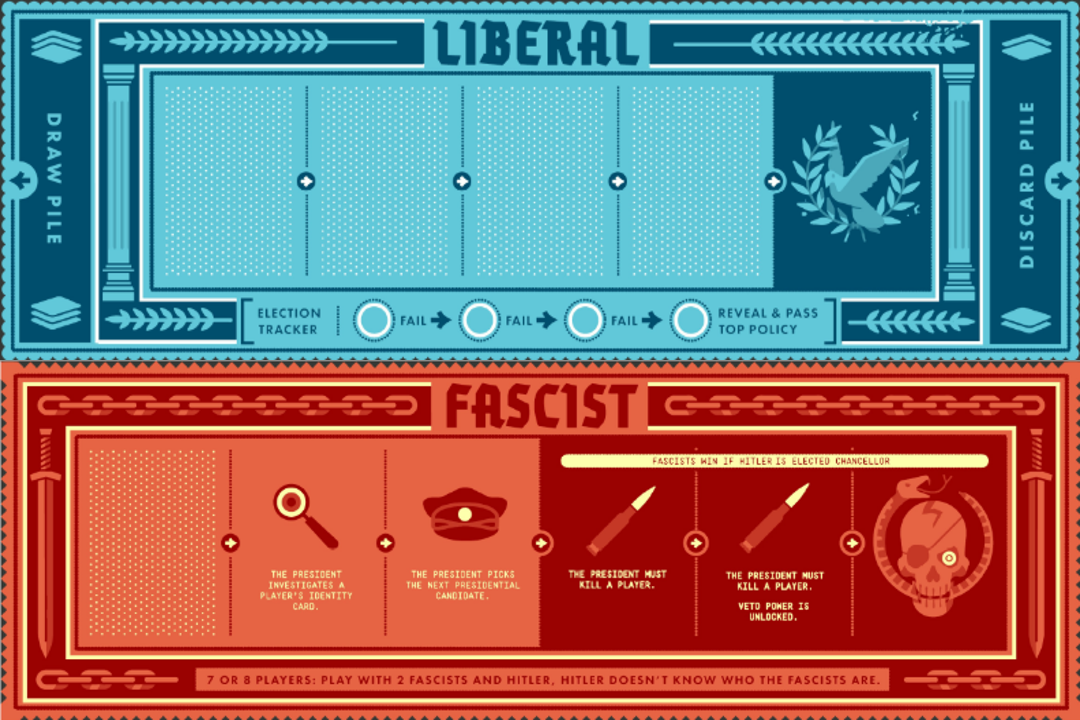
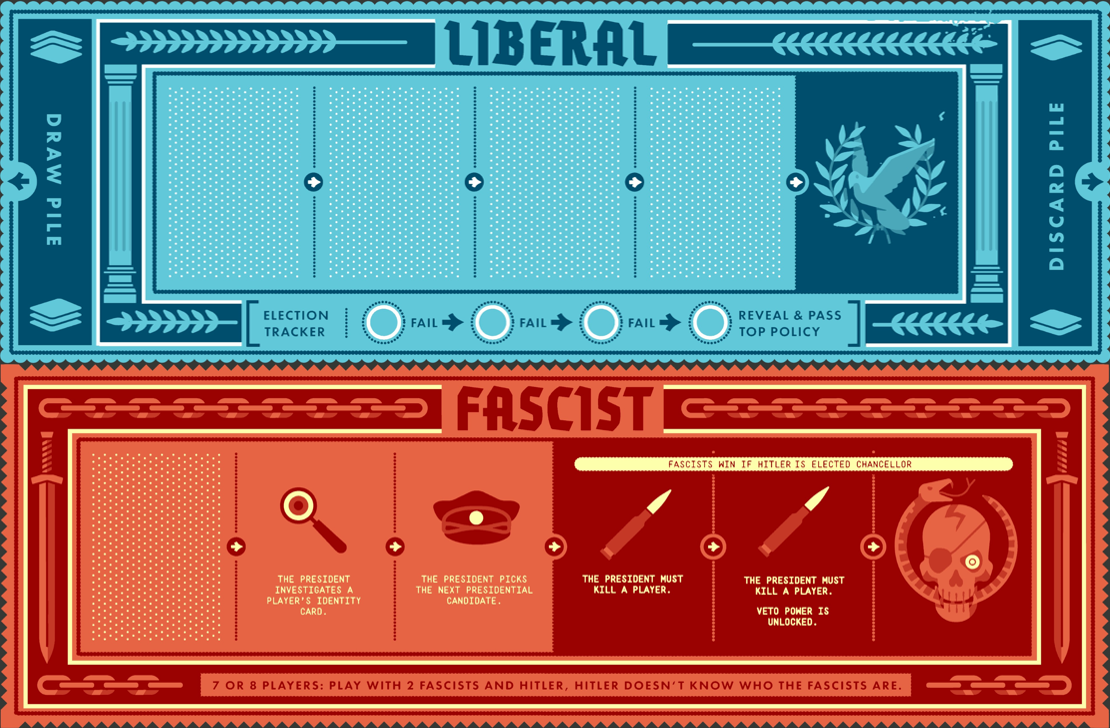
fixed player.send() async

diff --git a/Python/board.py b/Python/board.py
@@ -1,3 +1,4 @@
+
 import random
 from enum import Enum
 from typing import Type
@@ -7,7 +8,6 @@ from discord import Embed, File
 
 from players import Player
 from static_data import colours
-
 
 # from PIL import Image
 
@@ -71,7 +71,7 @@ class Board:
     def getPlayerCount(self) -> int:
         return len(self.__players)
 
-    def generateAndSendRoles(self):
+    async def generateAndSendRoles(self):
         rolesList = ["H", "L", "L", "L", "F", "L", "F", "L", "F", "L"]
         reqdRoles = rolesList[: len(self.__players)]
         if len(self.__players) < 7:
@@ -95,10 +95,10 @@ class Board:
                 p.role = "Hitler"
                 p.rolePic = f"./images/Role_{p.role}.png"
                 self.__hitler = {p.id: p.name}
-        self.__gameBoard = f"./images/Board{self.boardType.value}.png"
-        self.__sendRoles()
+        self.__gameBoard = f"./images/Board{self.__boardType.value}.png"
+        await self.__sendRoles()
 
-    def __sendRoles(self):
+    async def __sendRoles(self):
         for player in self.__players:
             if player.role == "Liberal":
                 desc = "For justice, liberty and equality!"
@@ -106,9 +106,7 @@ class Board:
             elif player.role == "Facist":
                 col = "ORANGE"
                 if self.__boardType == BoardType.FiveToSix:
-                    desc = (
-                        f"Hitler is ***{list(self.hitler.values())[0]}***"
-                    )
+                    desc = f"Hitler is ***{list(self.hitler.values())[0]}***"
                 elif self.__boardType == BoardType.SevenToEight:
                     desc = f"Your fellow facist is *{[val for key, val in self.facists.items() if key != player.id]}*, Hitler is ***{list(self.hitler.values())[0]}***"
                 else:
@@ -116,9 +114,7 @@ class Board:
             else:
                 col = "RED"
                 if self.__boardType == BoardType.SevenToEight:
-                    desc = (
-                        f"*{list(self.facists.values())[0]}* is the facist"
-                    )
+                    desc = f"*{list(self.facists.values())[0]}* is the facist"
                 else:
                     desc = "You don't know who the other facists are!"
             roleEmbed = Embed(
@@ -126,12 +122,10 @@ class Board:
                 colour=colours[col],
                 description=desc,
             )
-            file_embed = File(
-                f"{player.rolePic}", filename="role.png"
-            )
-            roleEmbed.set_author(name=player.name, icon_url=player.avatar_url)
+            file_embed = File(f"{player.rolePic}", filename="role.png")
+            roleEmbed.set_author(name=player.name, icon_url=player.avatar)
             roleEmbed.set_image(url="attachment://role.png")
-            player.send(file_embed, roleEmbed)
+            await player.send(file_embed, roleEmbed)
 
     def nextPresident(self, newIndex=None):
         if newIndex is None:
@@ -147,20 +141,20 @@ class Board:
                 self.__chancellor = p
 
     def getTableEmbed(self):
-        if self.roundType == RoundType.Nomination:
+        if self.__roundType == RoundType.Nomination:
             # Remove spaces in below tags when using n bots
             desc = f"<@! {self.president.id} >, please pick the chancellor by typing *sh!p @<candidate name>*"
             col = "PURPLE"
-        elif self.roundType == RoundType.Election:
+        elif self.__roundType == RoundType.Election:
             # Remove spaces in below tags when using n bots
             desc = f"All players, please enter *sh!v ja* -> to vote **YES** and *sh!v nein* -> to vote **NO**"
             col = "GREY"
         tableEmbed = discord.Embed(
-            title=f"***\t {self.roundType} Stage***",
+            title=f"***\t {self.__roundType} Stage***",
             description=desc,
             colour=colours[col],
         )
-        file_embed = discord.File(self.gameBoard, filename="board.png")
+        file_embed = discord.File(self.__gameBoard, filename="board.png")
         """
         Commented due to presence of bots
         tableEmbed.set_author(
@@ -170,20 +164,20 @@ class Board:
         for p in self.getPlayers():
             if p.id == self.president.id:
                 val = "Current President"
-            elif p.id == self.chancellor.id:
-                val = "Current Chancellor"
-            elif p.id == self.prevChancellorID:
+            elif p.id == self.__prevChancellorID:
                 val = "Previous Chancellor"
-            elif p.id == self.prevPresidentID:
+            elif p.id == self.__prevPresidentID:
                 val = "Previous President"
-            elif self.roundType == RoundType.Nomination:
+            elif self.__roundType == RoundType.Nomination:
                 val = "Waiting for chancellor nomination"
             elif self.roundType == RoundType.Election:
-                val = "Yet to vote"
+                if p.id == self.__chancellor.id:
+                    val = "Current Chancellor"
+                else:
+                    val = "Yet to vote"
             tableEmbed.add_field(name=p.name, value=val)
         tableEmbed.set_image(url="attachment://board.png")
         return tableEmbed, file_embed
-
 
     @property
     def channel(self):

diff --git a/Python/bot.py b/Python/bot.py
@@ -5,9 +5,8 @@ from discord.ext import commands
 
 from board import Board, BoardState, RoundType
 from players import Player
+from static_data import colours, images
 
-with open("./images/colors.json", "r") as _colourFile:
-    colours = json.load(_colourFile)
 
 bot = commands.Bot(command_prefix="sh!")
 board = Board()
@@ -76,7 +75,6 @@ async def join(ctx):
             newEmbed.add_field(name=board.getPlayerCount(), value=ctx.author.name)
             newEmbed.set_footer(text=f"{board.getPlayerCount()}/10 players joined")
             await board.messageToEdit.edit(embed=newEmbed)
-            # await ctx.send(file=None, embed=newEmbed)
 
 
 @bot.command()
@@ -125,7 +123,7 @@ async def begin(ctx):
                     "So play wisely and remember, trust* ***no one.***"
                 )
                 board.state = BoardState.Active
-                board.generateAndSendRoles()
+                await board.generateAndSendRoles()
                 tableEmbed, file_embed = board.getTableEmbed()
                 await ctx.send(file=file_embed, embed=tableEmbed)
 

diff --git a/Python/test.py b/Python/test.py
@@ -1,12 +1,21 @@
 from PIL import Image
 
 liberalBoard = Image.open("./images/LiberalBoard.png")
-liberalBoard = liberalBoard.resize((1080, 360))
-# liberalBoard.show()
+print(liberalBoard.size)
+
 facistBoard = Image.open("./images/FacistBoard3.png")
-facistBoard = facistBoard.resize((1080, 360))
+print(facistBoard.size)
+""" facistBoard = Image.open("./images/FacistBoard2.png")
+print(facistBoard.size)
+facistBoard = Image.open("./images/FacistBoard3.png")
+print(facistBoard.size) """
+
+liberalBoard = liberalBoard.resize((1110, 364))
+# liberalBoard.show()
+
+facistBoard = facistBoard.resize((1110, 364))
 # facistBoard.show()
-boardImage = Image.new("RGBA", (1080, 720), "white")
-boardImage.paste(liberalBoard, (0, 0, 1080, 360))
-boardImage.paste(facistBoard, (0, 360, 1080, 720))
+boardImage = Image.new("RGBA", (1110, 728), "white")
+boardImage.paste(liberalBoard, (0, 0, 1110, 364))
+boardImage.paste(facistBoard, (0, 364, 1110, 728))
 boardImage.show()

diff --git a/Python/players.py b/Python/players.py
@@ -47,6 +47,6 @@ class Player:
     def rolePic(self, rolePic: str):
         self.__rolePic = rolePic
 
-    async def send(self, file, embed):
+    async def send(self, fileObj, embedObj):
         if self.__user:
-            await self.__user.send(file=file, embed=embed)
+            await self.__user.send(file=fileObj, embed=embedObj)
